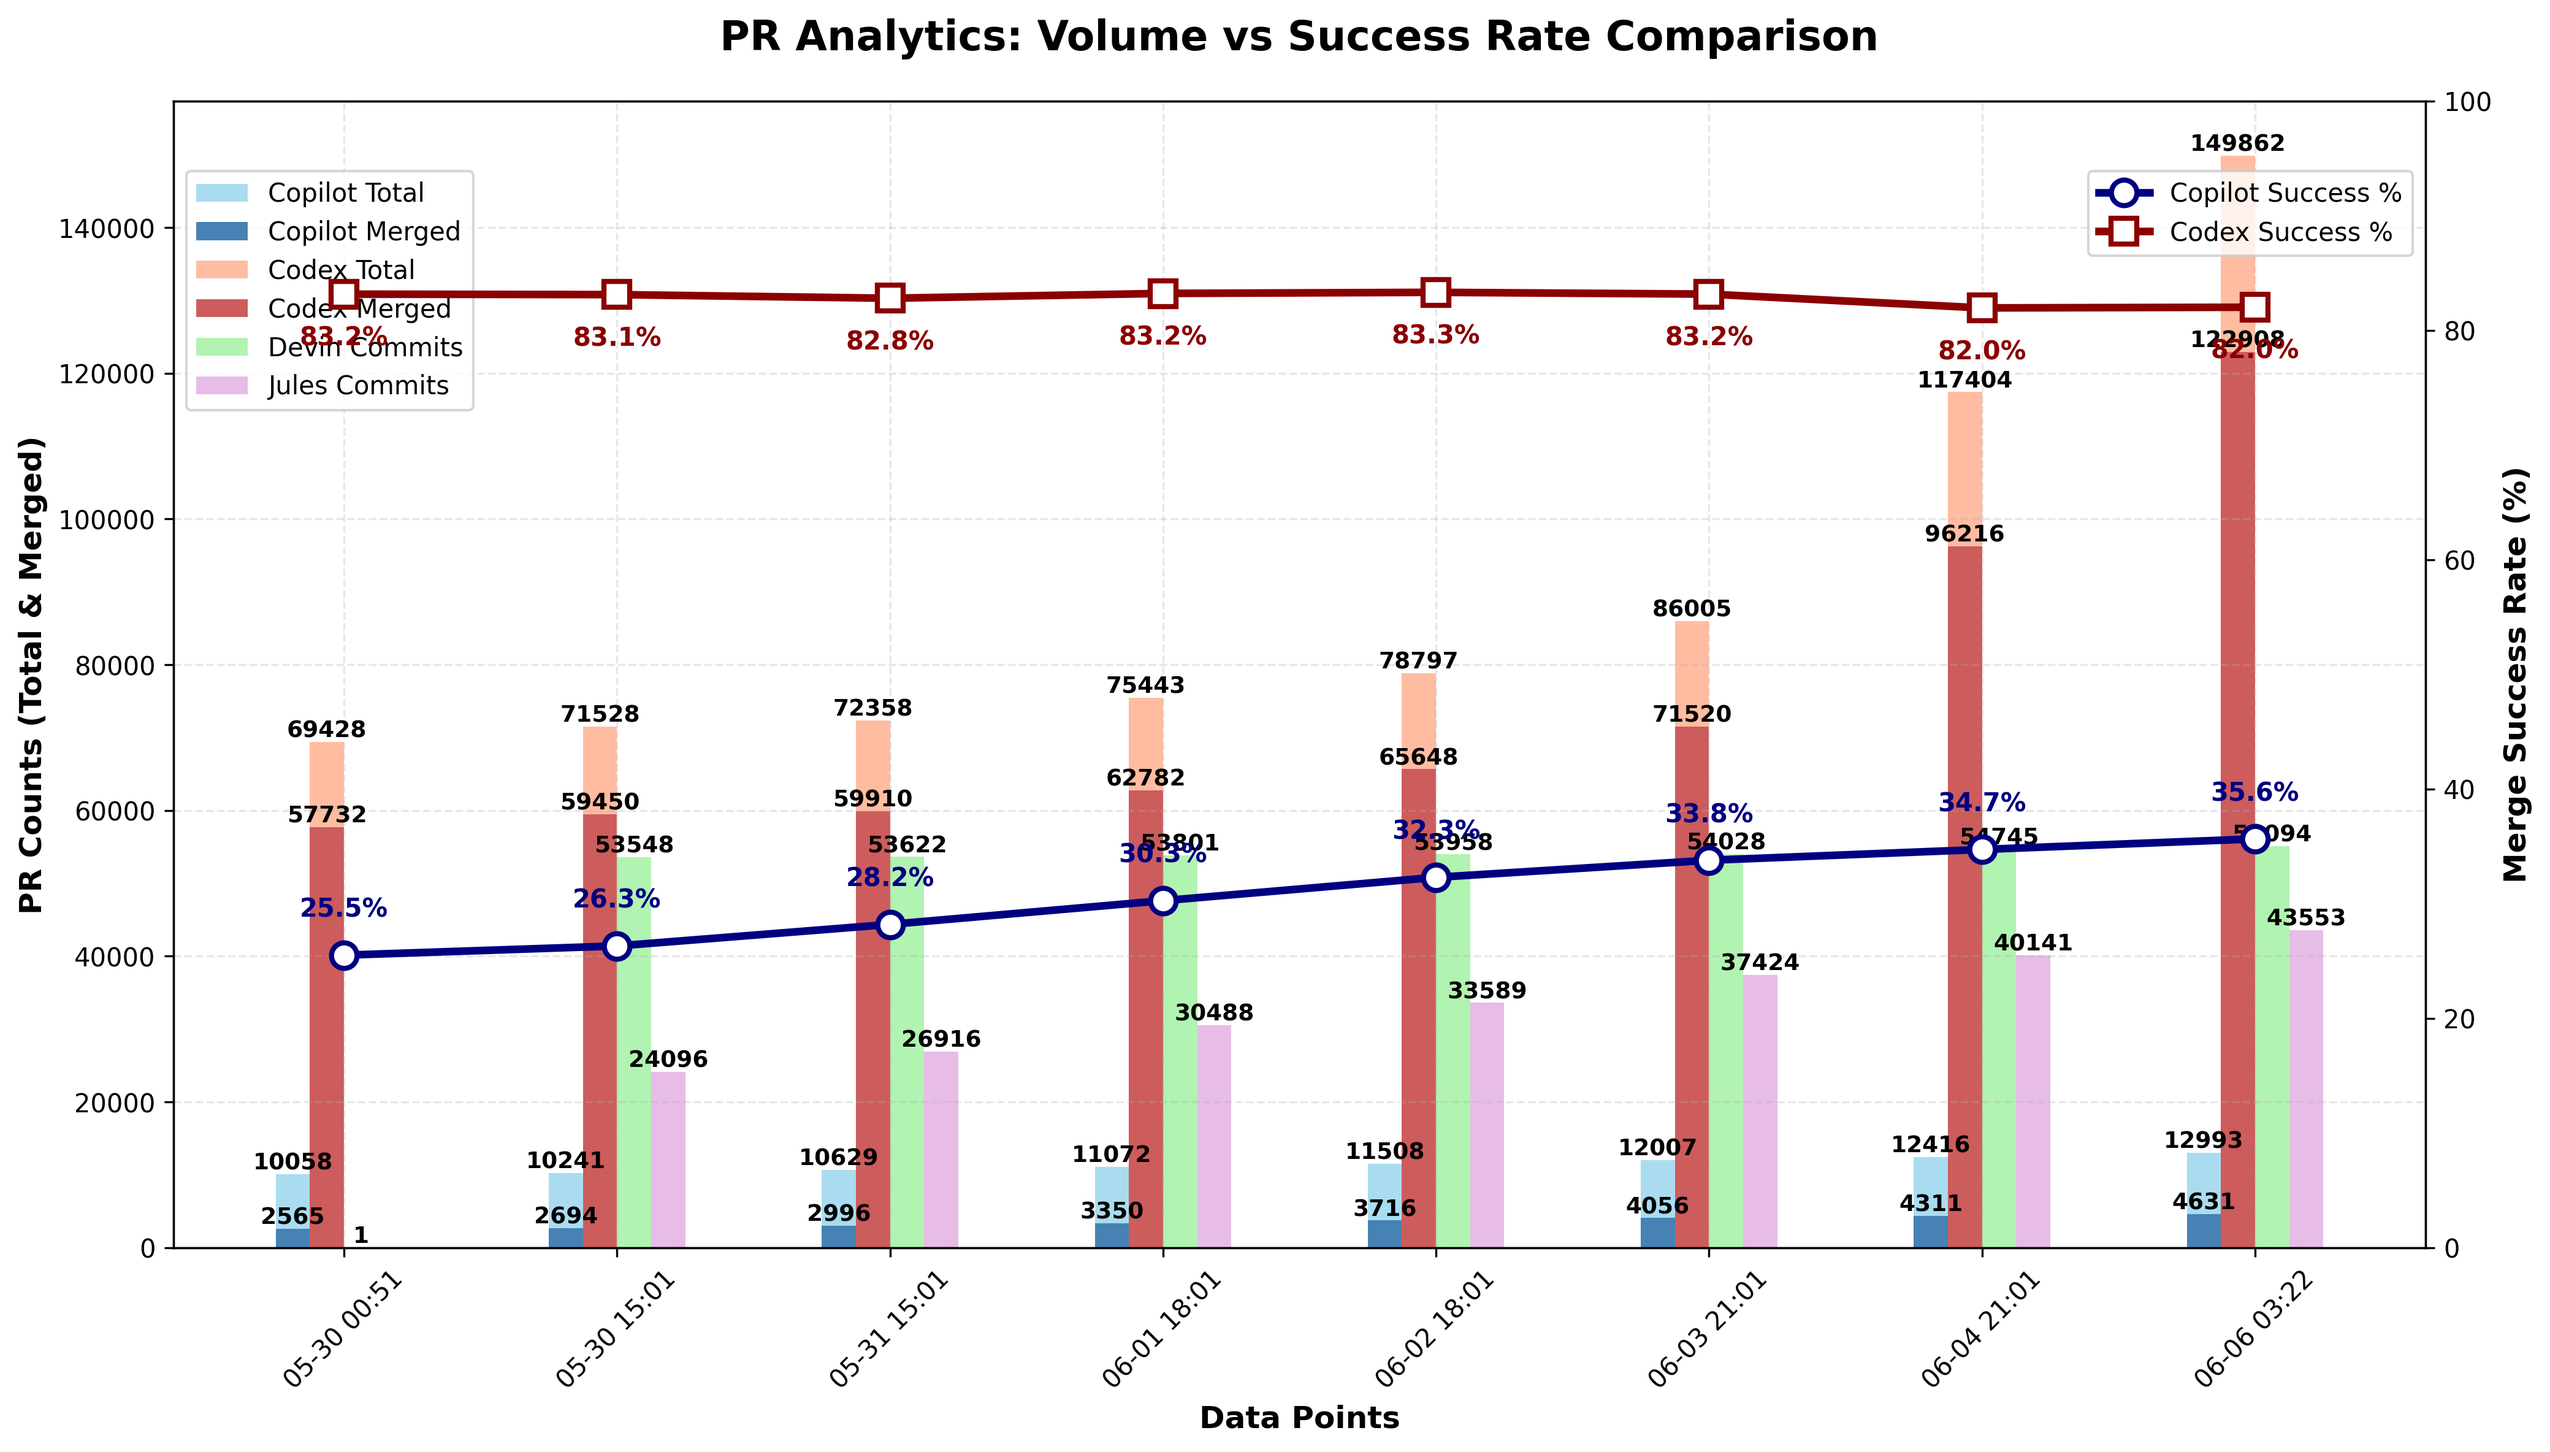
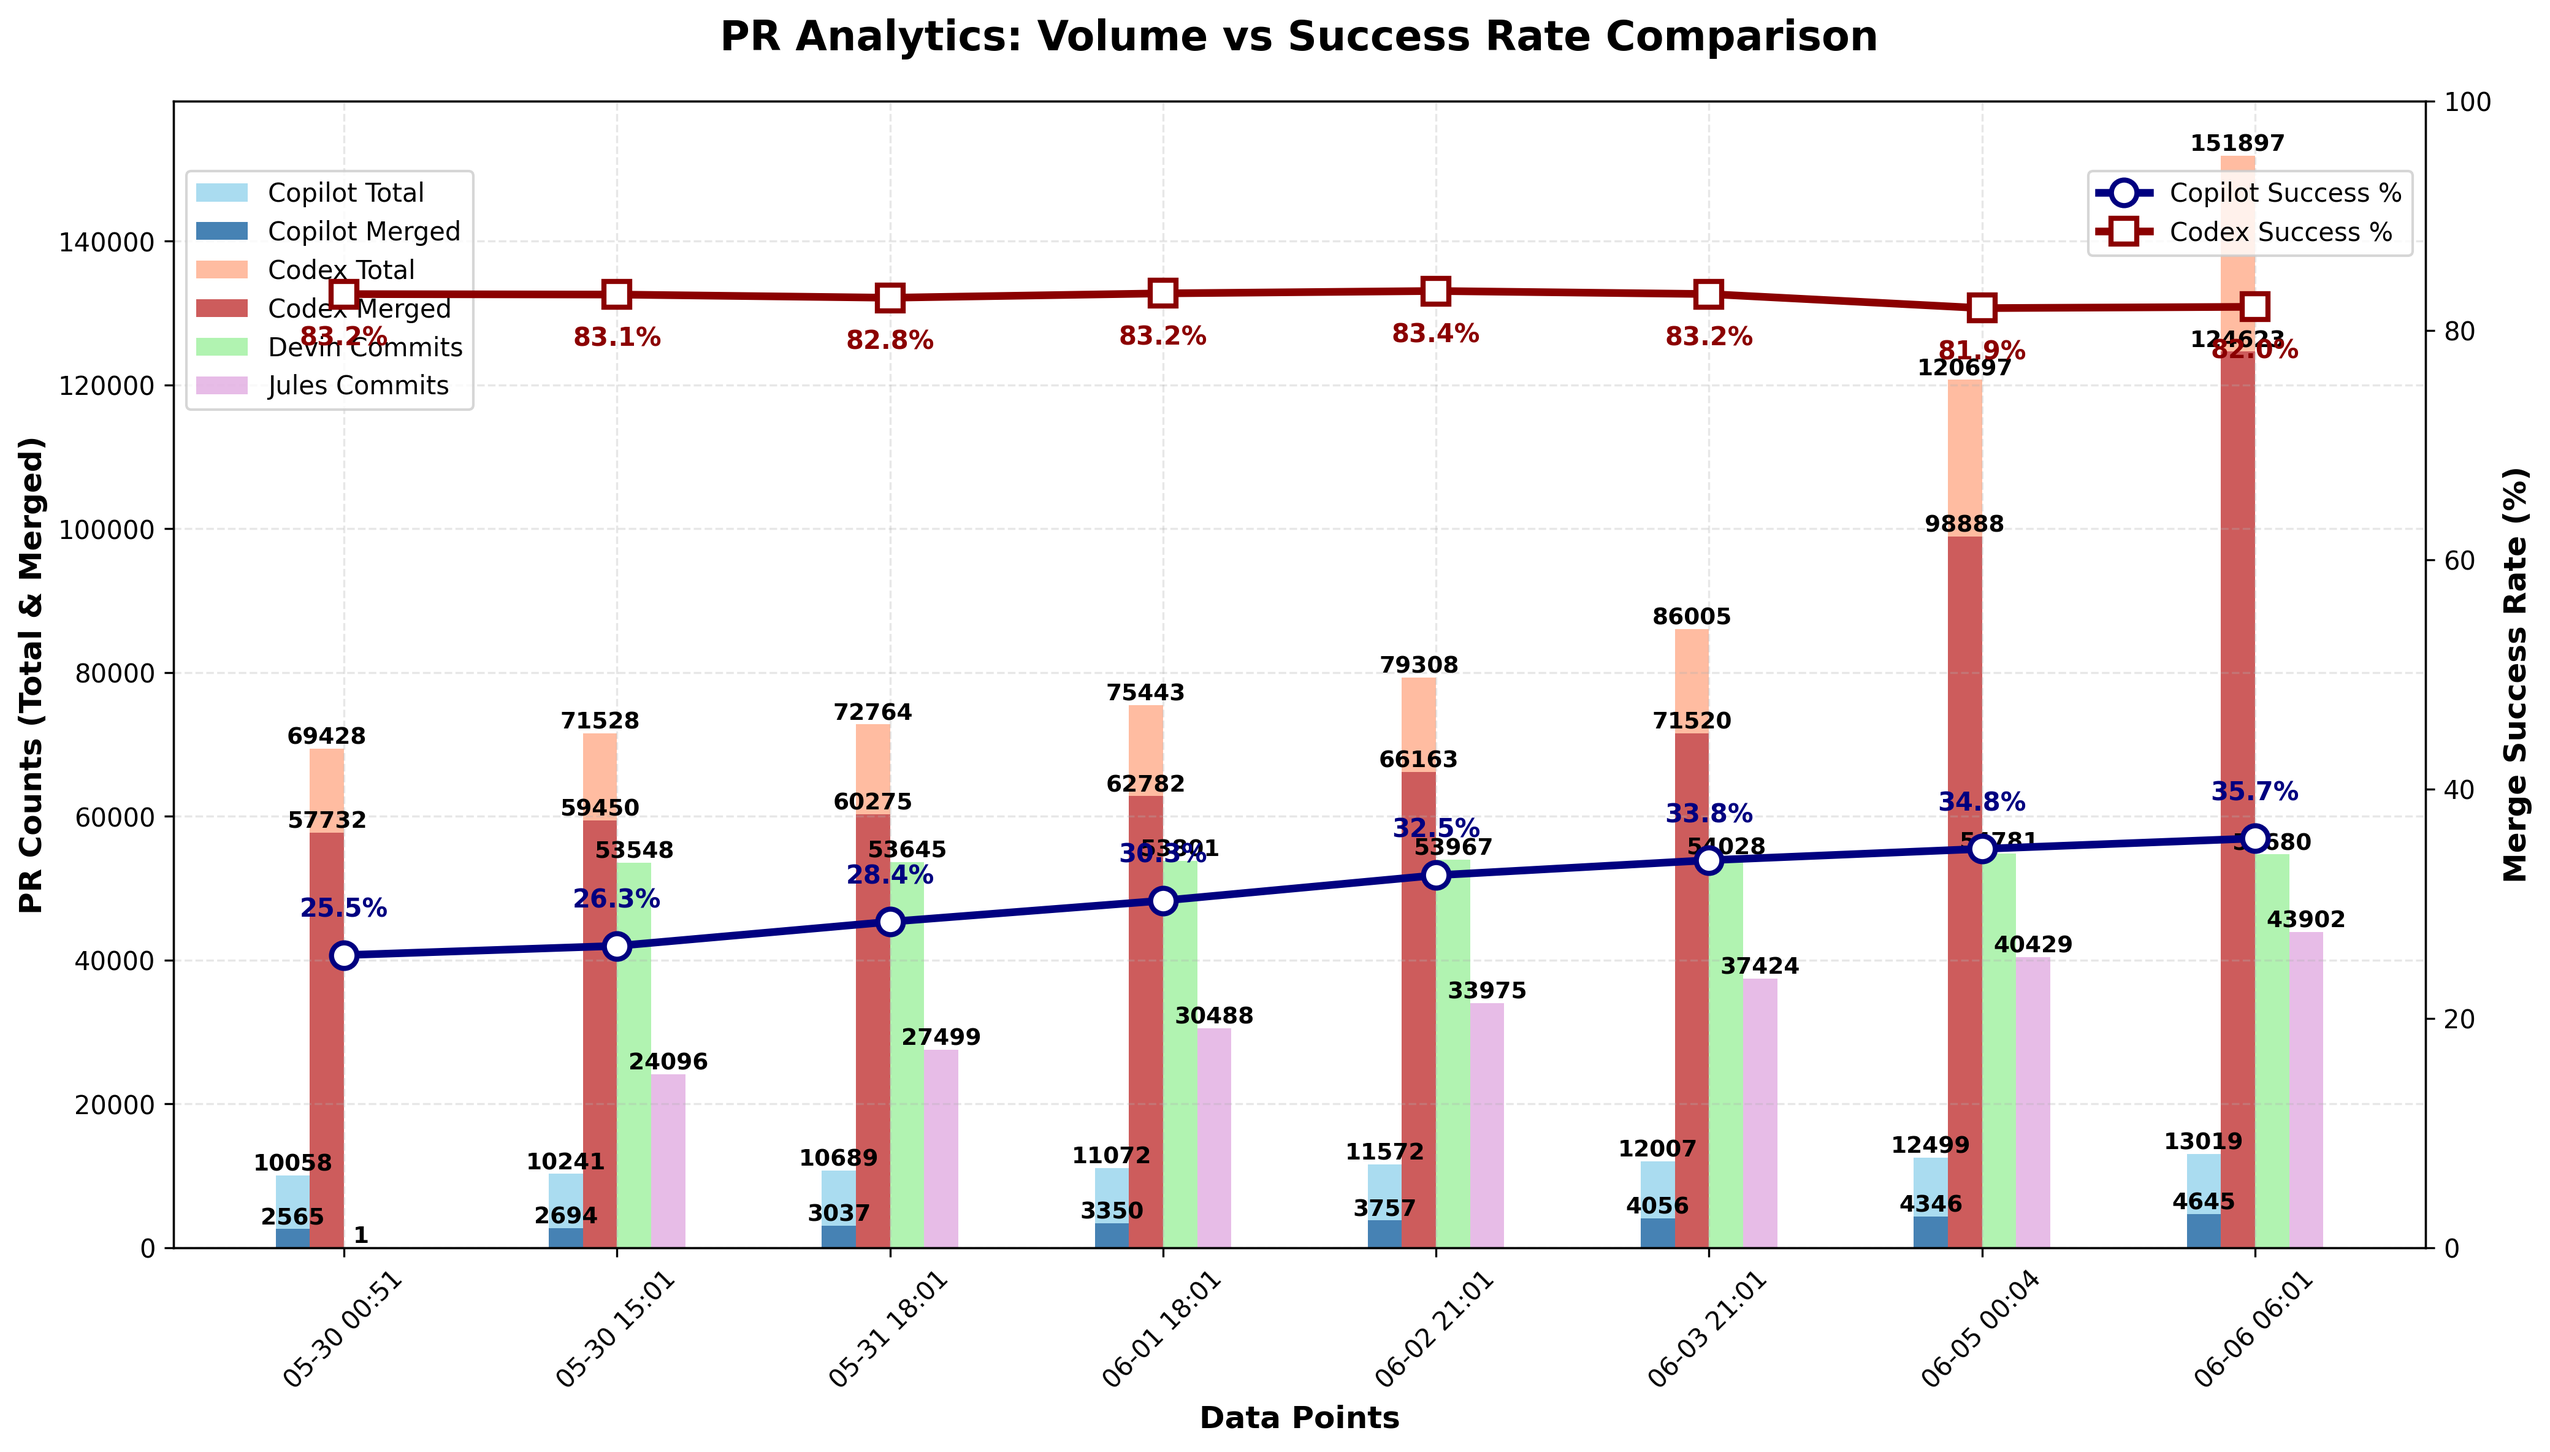
chore: update PR‑approval chart

diff --git a/docs/index.html b/docs/index.html
@@ -107,6 +107,7 @@
                         <td>N/A</td>
                         <td>N/A</td>
                         <td>N/A</td>
+                        <td>N/A</td>
                     </tr>
                     <tr>
                         <td>Codex</td>
@@ -172,27 +173,28 @@
                         <td>N/A</td>
                         <td>N/A</td>
                         <td>N/A</td>
+                        <td>N/A</td>
                     </tr>
                 <tr>
                         <td>Devin</td>
                         <td>N/A</td>
                         <td>N/A</td>
                         <td>N/A</td>
-                        <td>55,094</td>
+                        <td>54,680</td>
                     </tr>
                     <tr>
                         <td>Jules</td>
                         <td>N/A</td>
                         <td>N/A</td>
                         <td>N/A</td>
-                        <td>43,553</td>
+                        <td>43,902</td>
                     </tr>
                     </tbody>
             </table>
         </section>
 
         <footer>
-            <p>Last updated: <span id="last-updated">June 06, 2025 03:22 UTC</span></p>
+            <p>Last updated: <span id="last-updated">June 06, 2025 06:01 UTC</span></p>
             <p><a href="https://github.com/aavetis/ai-pr-watcher">View on GitHub</a></p>
         </footer>
     </div>

diff --git a/README.md b/README.md
@@ -19,7 +19,7 @@ Explore the GitHub search queries used:
 
 | Service | Total PRs | Merged PRs | Merge Rate | Total Commits |
 | ------- | --------- | ---------- | ---------- | ------------- |
-| Copilot | 12,993 | 4,631 | 35.64% | N/A           |
-| Codex   | 149,862 | 122,908 | 82.01% | N/A           |
-| Devin   | N/A       | N/A        | N/A        | 55,094 |
-| Jules   | N/A       | N/A        | N/A        | 43,553 |
+| Copilot | 13,019 | 4,645 | 35.68% | N/A           |
+| Codex   | 151,897 | 124,623 | 82.04% | N/A           |
+| Devin   | N/A       | N/A        | N/A        | 54,680 |
+| Jules   | N/A       | N/A        | N/A        | 43,902 |
